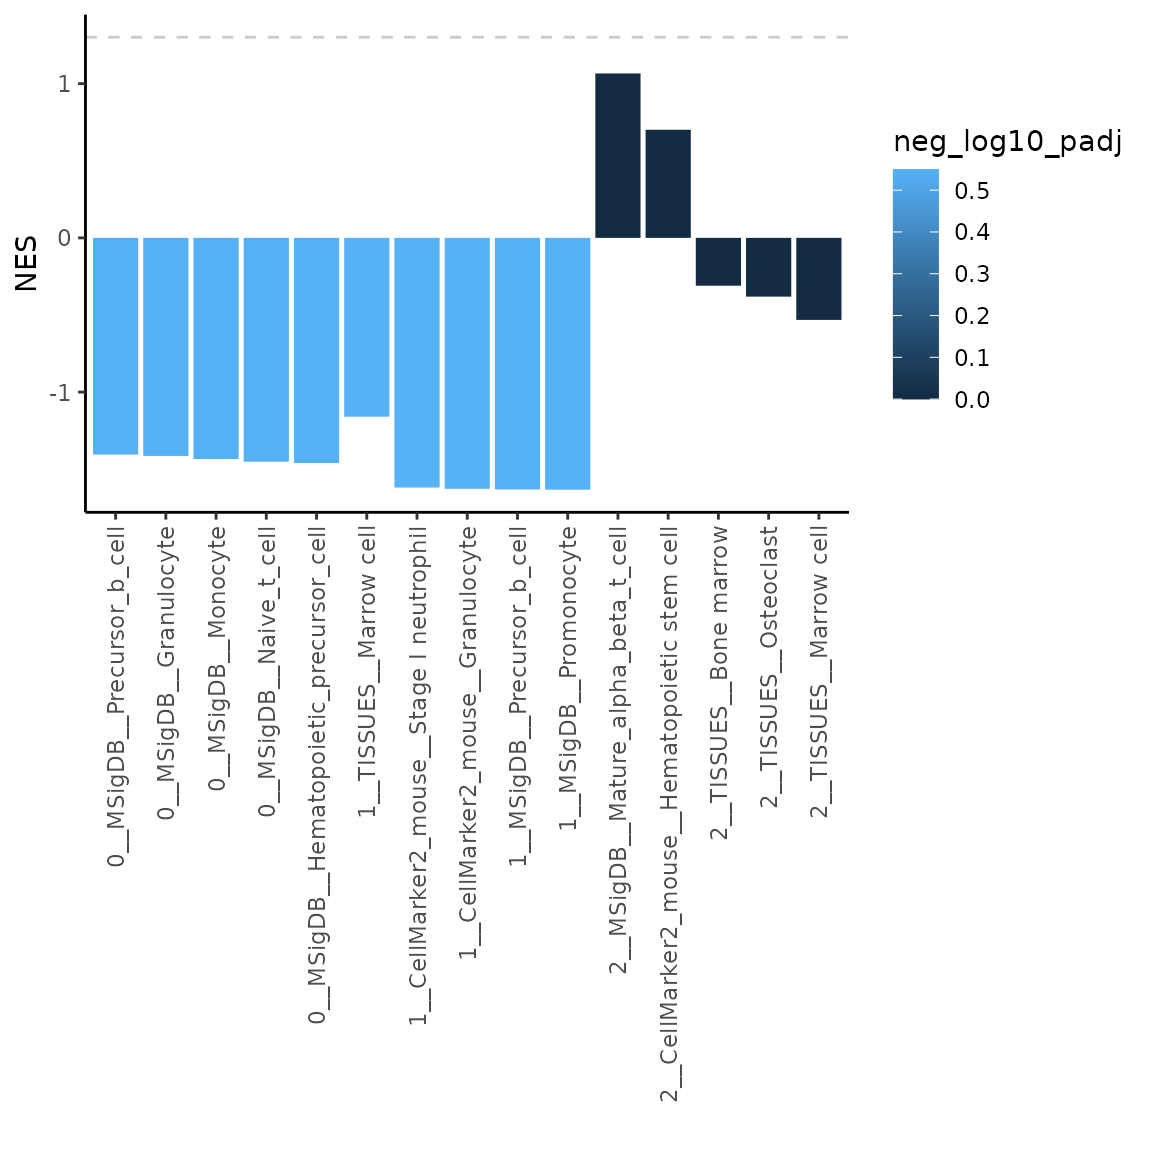
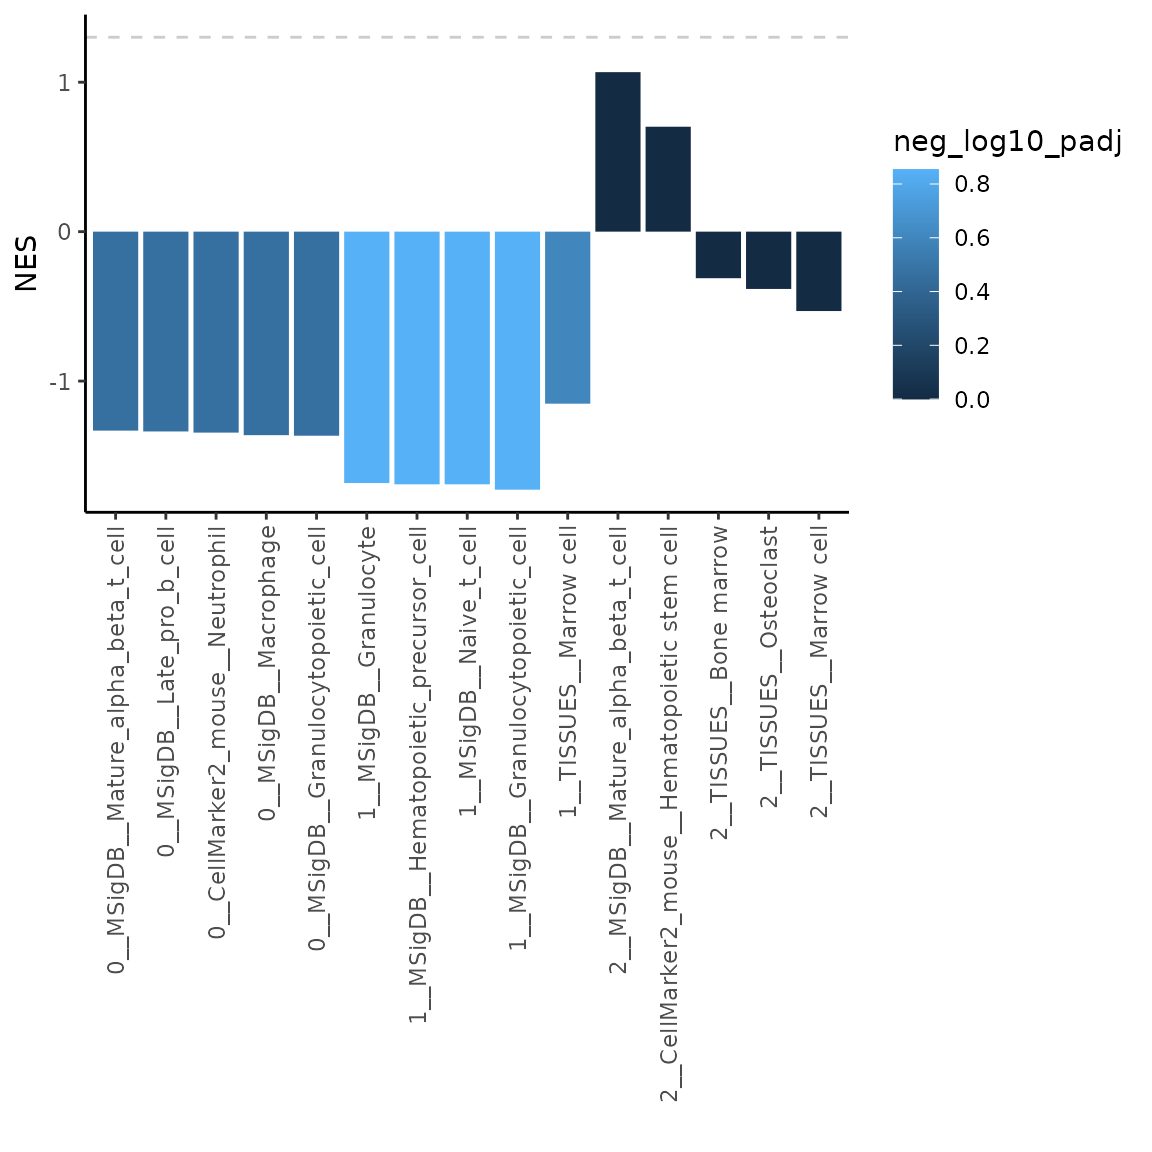
Deploying to gh-pages from @ Farber-Lab/BoneCellType@bbfefb93cec4fee3e79147ec91f96135f2026734 🚀

diff --git a/articles/intro_to_BoneCellType.html b/articles/intro_to_BoneCellType.html
@@ -66,7 +66,7 @@
                         <h4 data-toc-skip class="author">Kristyna
 Kupkova</h4>
             
-            <h4 data-toc-skip class="date">2023-09-30</h4>
+            <h4 data-toc-skip class="date">2023-10-03</h4>
       
       
       <div class="d-none name"><code>intro_to_BoneCellType.Rmd</code></div>
@@ -218,21 +218,21 @@ results.</p>
 <span>  <span class="fu"><a href="https://dplyr.tidyverse.org/reference/top_n.html" class="external-link">top_n</a></span><span class="op">(</span>n <span class="op">=</span> <span class="fl">2</span>, wt <span class="op">=</span> <span class="op">-</span><span class="va">padj</span><span class="op">)</span></span>
 <span></span>
 <span><span class="va">topGSEAres</span></span></code></pre></div>
-<pre><code><span><span class="co">#&gt; <span style="color: #949494;"># A tibble: 34 × 9</span></span></span>
+<pre><code><span><span class="co">#&gt; <span style="color: #949494;"># A tibble: 33 × 9</span></span></span>
 <span><span class="co">#&gt; <span style="color: #949494;"># Groups:   cluster [3]</span></span></span>
 <span><span class="co">#&gt;    pathway             pval  padj log2err     ES   NES  size leadingEdge cluster</span></span>
 <span><span class="co">#&gt;    <span style="color: #949494; font-style: italic;">&lt;chr&gt;</span>              <span style="color: #949494; font-style: italic;">&lt;dbl&gt;</span> <span style="color: #949494; font-style: italic;">&lt;dbl&gt;</span>   <span style="color: #949494; font-style: italic;">&lt;dbl&gt;</span>  <span style="color: #949494; font-style: italic;">&lt;dbl&gt;</span> <span style="color: #949494; font-style: italic;">&lt;dbl&gt;</span> <span style="color: #949494; font-style: italic;">&lt;int&gt;</span> <span style="color: #949494; font-style: italic;">&lt;chr&gt;</span>         <span style="color: #949494; font-style: italic;">&lt;int&gt;</span></span></span>
-<span><span class="co">#&gt; <span style="color: #BCBCBC;"> 1</span> CellMarker2_mous… 0.086<span style="text-decoration: underline;">1</span> 0.376   0.178 -<span style="color: #BB0000;">0.905</span> -<span style="color: #BB0000;">1.45</span>     7 Hba-a1            0</span></span>
-<span><span class="co">#&gt; <span style="color: #BCBCBC;"> 2</span> CellMarker2_mous… 0.172  0.376   0.123 -<span style="color: #BB0000;">0.852</span> -<span style="color: #BB0000;">1.36</span>     6 S100a9,Ltf…       0</span></span>
-<span><span class="co">#&gt; <span style="color: #BCBCBC;"> 3</span> CellMarker2_mous… 0.091<span style="text-decoration: underline;">2</span> 0.376   0.170 -<span style="color: #BB0000;">0.901</span> -<span style="color: #BB0000;">1.44</span>     8 Hba-a1,Hbb…       0</span></span>
-<span><span class="co">#&gt; <span style="color: #BCBCBC;"> 4</span> CellMarker2_mous… 0.083<span style="text-decoration: underline;">6</span> 0.376   0.188 -<span style="color: #BB0000;">0.927</span> -<span style="color: #BB0000;">1.45</span>     5 Hba-a1            0</span></span>
-<span><span class="co">#&gt; <span style="color: #BCBCBC;"> 5</span> MSigDB__Granuloc… 0.113  0.376   0.160 -<span style="color: #BB0000;">0.896</span> -<span style="color: #BB0000;">1.40</span>     5 S100a9,Mal…       0</span></span>
-<span><span class="co">#&gt; <span style="color: #BCBCBC;"> 6</span> MSigDB__Granuloc… 0.139  0.376   0.126 -<span style="color: #BB0000;">0.829</span> -<span style="color: #BB0000;">1.36</span>    13 S100a9,Mal…       0</span></span>
-<span><span class="co">#&gt; <span style="color: #BCBCBC;"> 7</span> MSigDB__Hematopo… 0.101  0.376   0.161 -<span style="color: #BB0000;">0.889</span> -<span style="color: #BB0000;">1.42</span>     8 S100a9,Mal…       0</span></span>
-<span><span class="co">#&gt; <span style="color: #BCBCBC;"> 8</span> MSigDB__Late_pro… 0.176  0.376   0.121 -<span style="color: #BB0000;">0.847</span> -<span style="color: #BB0000;">1.35</span>     6 S100a9,S10…       0</span></span>
-<span><span class="co">#&gt; <span style="color: #BCBCBC;"> 9</span> MSigDB__Macropha… 0.153  0.376   0.128 -<span style="color: #BB0000;">0.847</span> -<span style="color: #BB0000;">1.35</span>     8 S100a9,Ltf…       0</span></span>
-<span><span class="co">#&gt; <span style="color: #BCBCBC;">10</span> MSigDB__Mature_a… 0.182  0.376   0.119 -<span style="color: #BB0000;">0.843</span> -<span style="color: #BB0000;">1.35</span>     6 Malat1            0</span></span>
-<span><span class="co">#&gt; <span style="color: #949494;"># ℹ 24 more rows</span></span></span></code></pre>
+<span><span class="co">#&gt; <span style="color: #BCBCBC;"> 1</span> CellMarker2_mous… 0.094<span style="text-decoration: underline;">2</span> 0.363   0.170 -<span style="color: #BB0000;">0.905</span> -<span style="color: #BB0000;">1.42</span>     7 Hba-a1            0</span></span>
+<span><span class="co">#&gt; <span style="color: #BCBCBC;"> 2</span> CellMarker2_mous… 0.168  0.363   0.127 -<span style="color: #BB0000;">0.852</span> -<span style="color: #BB0000;">1.33</span>     6 S100a9,Ltf…       0</span></span>
+<span><span class="co">#&gt; <span style="color: #BCBCBC;"> 3</span> CellMarker2_mous… 0.073<span style="text-decoration: underline;">8</span> 0.363   0.190 -<span style="color: #BB0000;">0.901</span> -<span style="color: #BB0000;">1.44</span>     8 Hba-a1,Hbb…       0</span></span>
+<span><span class="co">#&gt; <span style="color: #BCBCBC;"> 4</span> CellMarker2_mous… 0.081<span style="text-decoration: underline;">7</span> 0.363   0.194 -<span style="color: #BB0000;">0.927</span> -<span style="color: #BB0000;">1.42</span>     5 Hba-a1            0</span></span>
+<span><span class="co">#&gt; <span style="color: #BCBCBC;"> 5</span> MSigDB__Granuloc… 0.125  0.363   0.154 -<span style="color: #BB0000;">0.896</span> -<span style="color: #BB0000;">1.38</span>     5 S100a9,Mal…       0</span></span>
+<span><span class="co">#&gt; <span style="color: #BCBCBC;"> 6</span> MSigDB__Granuloc… 0.152  0.363   0.121 -<span style="color: #BB0000;">0.829</span> -<span style="color: #BB0000;">1.35</span>    13 S100a9,Mal…       0</span></span>
+<span><span class="co">#&gt; <span style="color: #BCBCBC;"> 7</span> MSigDB__Hematopo… 0.094<span style="text-decoration: underline;">0</span> 0.363   0.167 -<span style="color: #BB0000;">0.889</span> -<span style="color: #BB0000;">1.42</span>     8 S100a9,Mal…       0</span></span>
+<span><span class="co">#&gt; <span style="color: #BCBCBC;"> 8</span> MSigDB__Late_pro… 0.172  0.363   0.125 -<span style="color: #BB0000;">0.847</span> -<span style="color: #BB0000;">1.32</span>     6 S100a9,S10…       0</span></span>
+<span><span class="co">#&gt; <span style="color: #BCBCBC;"> 9</span> MSigDB__Macropha… 0.153  0.363   0.128 -<span style="color: #BB0000;">0.847</span> -<span style="color: #BB0000;">1.35</span>     8 S100a9,Ltf…       0</span></span>
+<span><span class="co">#&gt; <span style="color: #BCBCBC;">10</span> MSigDB__Mature_a… 0.175  0.363   0.124 -<span style="color: #BB0000;">0.843</span> -<span style="color: #BB0000;">1.31</span>     6 Malat1            0</span></span>
+<span><span class="co">#&gt; <span style="color: #949494;"># ℹ 23 more rows</span></span></span></code></pre>
 <p>As shown, the output is a table with following variables-
 <em>pathaway</em>: defines a set of markers used for GSEA analysis /
 <em>pval</em>: p-value / <em>padj</em>: adjusted p-value /
